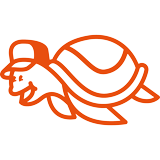
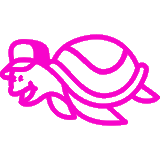
Changes primary color

Changed region(s): [[0.0, 0.1875, 1.0, 0.8125]]

diff --git a/src/style.ts b/src/style.ts
@@ -1,1 +1,1 @@
-export const primaryColor = "#ec4c0c"; 
+export const primaryColor = "#f705cb"; 
